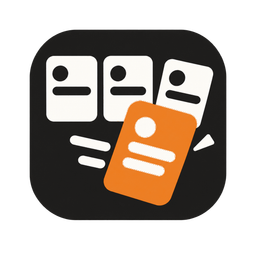
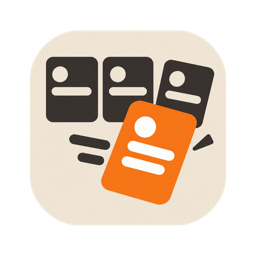
fix(branding): 优化品牌图标并统一插件资源打包

diff --git a/DESIGN.md b/DESIGN.md
@@ -126,8 +126,9 @@ Use system fonts only in v0 so the Worker serves no third-party font dependency.
 
 ### 2.4 Brand mark
 
-- The cfKanban mark is a warm-ink board with one vivid-orange task card moving out of it: the board identifies the product, while the escaping card gives the Agent-first promise a small, playful motion cue. The mark uses a brighter orange than controls; interactive surfaces use the deeper accessible orange tokens above so white text and focus cues retain sufficient contrast.
+- The cfKanban mark is a warm-paper board with warm-ink task cards and one vivid-orange task card moving out of it: the board identifies the product, while the escaping card gives the Agent-first promise a small, playful motion cue. The rounded board has a transparent exterior. This light board replaces the black tile (CFK-415); a fully transparent board would lose the old white cards on light browser chrome. The mark uses a brighter orange than controls; interactive surfaces use the deeper accessible orange tokens above so white text and focus cues retain sufficient contrast.
 - Use the same self-hosted mark for the favicon, public wordmark, authenticated header, and compact footer lockup. Keep adjacent `cfKanban` text as live text rather than baking a wordmark into the image.
+- The source is `apps/web/src/assets/cfkanban-mark.png`. The plugin's `interface.composerIcon`, `logo`, and `logoDark` reference this same PNG, which is also included in the Skill bundle. Use the same artwork in both host themes; do not maintain a separate plugin copy.
 - The mark must remain legible at 16px and 32px, keep its colored details within one warm-orange family, load no third-party resource, and carry an empty alt value when adjacent text already names the product.
 
 ## 3. Application shell
